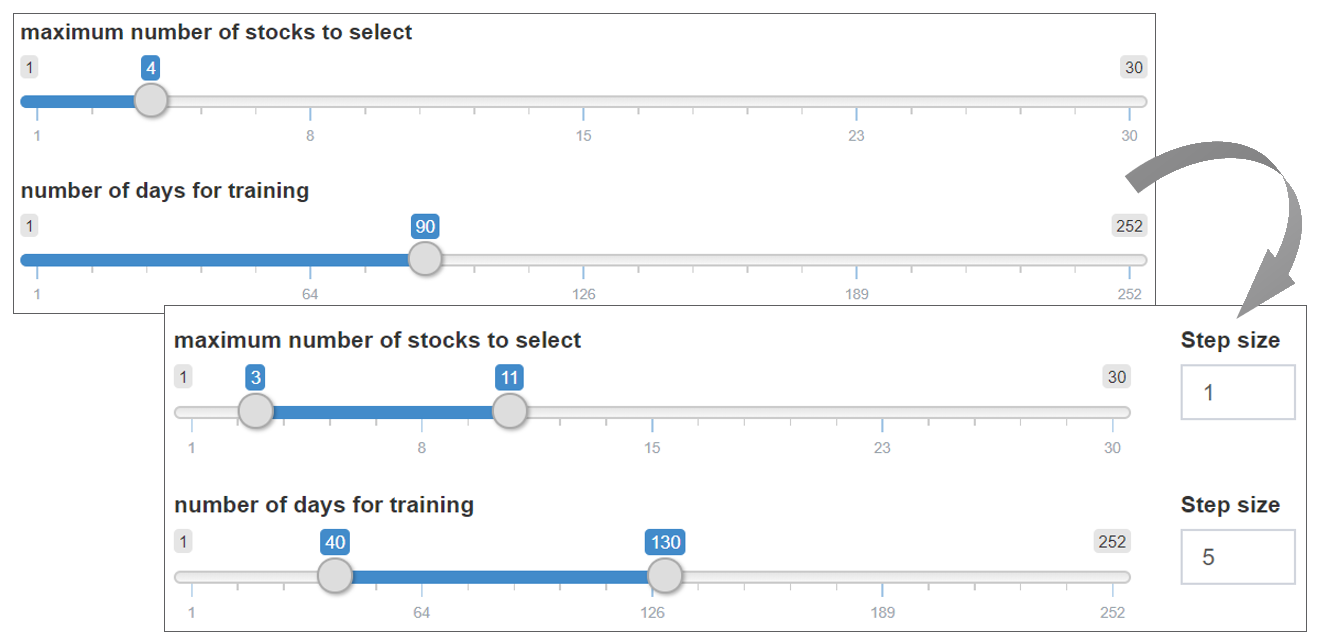
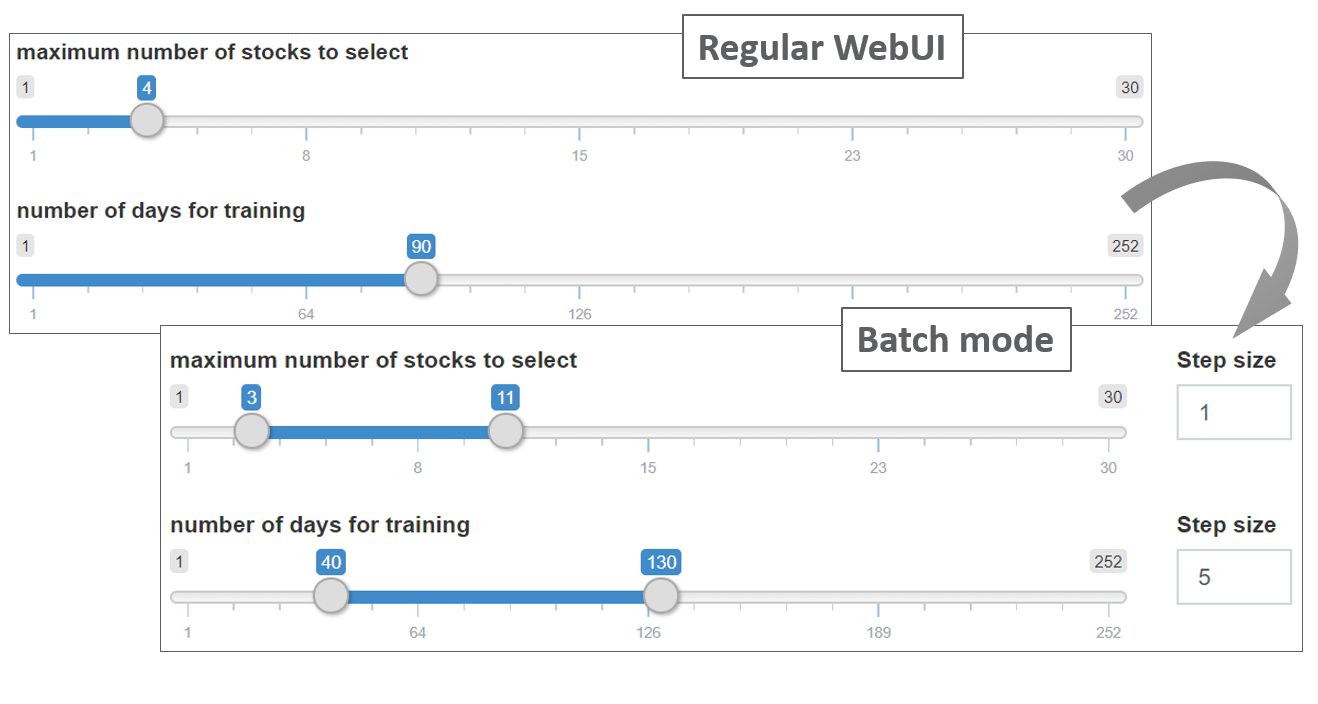
batch-documentation - first part of "Scenario generation" added

diff --git a/doc/batch.html b/doc/batch.html
@@ -68,7 +68,7 @@
                                 <div class="section-block">      
                                     <p>Visually, the WebUI for batch mode hardly differs from the regular one. After starting the application, the following familiar start screen appears.</p>
                                     <img class="img-fluid" src="assets/images/batch_img/batch_start.png" alt="start screen in batch mode" />
-                                    <p>The navigation menu on the left side now consists of the following sections:</p>
+                                    <p></br>The navigation menu on the left side now consists of the following sections:</p>
                                         <ol class="list">
                                         <li><b>Configure batch run: </b><br/>
                                         Configuration of batch runs.
@@ -86,6 +86,14 @@
                                           Automatic performance analyses with the integrated analysis tool PAVER.              
                                           </li>
                                         </ol>
+                                        <ol class="list" type="A">
+                                        <li><b>Load data: </b><br/>
+                                        Load model input data via database or external Excel files.
+                                        </li>
+                                        <li><b>Submit jobs:</b><br/>
+                                        Creation of batch file after the configuration / parameterization of batch runs. 
+                                          </li>
+                                        </ol>
                                 </div><!--//section-block-->
                             </section><!--//doc-section-->
 
@@ -93,18 +101,18 @@
                                 <h2 class="section-title">Scenario generation</h2>
                                 <div class="section-block">
                                     <p>This section deals with how to generate multiple scenarios, which can then be analyzed.</p>
-                                    
-                                    <p><b>Note:</b> For calculating a scenario the WebUI currently only provides scalar values in the form of compile-time (double-dash) parameters and GAMS options.</p>
+                                    <p>A scenario is defined by an individual parameterization of the model input data. If, for example, for a run of the above mentioned pickstock model, the number of training periods is set to 95 and the maximum number of stocks to be selected is set to 5, then this parameterization characterizes the scenario. The batch configuration discussed here makes it possible to configure several such scenarios at once, so that they can then be calculated in a single process. </p>
+                                    <p>The configuration of such a batch run for a model is done in the menu 'Configure batch run'. An example is given below.</p>
+                                    <p><b>Note:</b> The configuration for a batch run cannot be carried out across models, but only for one model at a time. 
+                                    <p><b>Note:</b> For the parameterization of a scenario, only the scalar values present in the model concerned are available in the form of compile-time (double-dash) parameters and GAMS options. Parameters are currently not supportet in this module.</p>
+
                                      
                                     <div  id="scengen-2"  class="section-block">
                                         <h3 class="block-title">Parameterization</h3>
-                                        <p></p>
-                                        <div class="section-block">
-                                              <img class="img-fluid" src="assets/images/batch_configure.png" alt="Parameterization of batch runs" />
-                                        </div>
-                                        <img class="img-fluid" src="assets/images/batch_img/regular_batch.png" alt="regular pickstock parameterization" />
+                                        <p>If you compare the parameterization options of the input data between a regular single run and the configuration of a batch run, you will notice that the input widgets have changed slightly. As an example the model pickstock is used again. As already mentioned, for parameterizing a single model run in the regular WebUI, you can specify both the number of training periods and the maximum number of stocks using a slider. 
+                                        In the batch configuration for these two compile-time parameters no simple slider are available anymore, but slider with 2 ends, so called range-slider. In addition, there is a 'step size' for the slider range to be configured by the user. The table below gives an overview of the widgets and their different appearance in the regular and the batch model parameterization.</p>
                                         <div class="table-responsive">
-                                          <table class="table table-striped">
+                                          <table class="table table-striped" style="margin: 0px auto; margin-bottom:15px;">
                                               <thead>
                                                   <tr>
                                                     <th>Single mode</th>
@@ -131,15 +139,47 @@
                                               </tbody>
                                           </table>
                                         </div><!--//table-responsive-->
-                                        
+                                        <p>The convention of automatic scenario generation has the following implications: Unless explicitly specified in the WebUI configuration of the model, each parameter of the input data is included in the Cartesian product from all parameter variations. In other words: All combinations are generated from the configuration selected by the user and each individual combination is saved as a single scenario. </p>
+                                        <div class="section-block">
+                                            <img class="img-fluid" src="assets/images/batch_configure.png" alt="Parameterization of batch runs" />
+                                        </div>
+                                        <img class="img-fluid" style="margin-bottom:15px" src="assets/images/batch_img/regular_batch.png" alt="regular pickstock parameterization" />
+                                        <p>In the example, the slider for 'maximum number of stocks to select' was set by the user to a range from 3 to 11 with a step size of 1. 
+                                        The slider configured in this way leads to 9 different scenarios.</p>
+                                        <ul>
+                                        <li>Scenario 1: 'maximum number of stocks to select' = 3</li>
+                                        <li>Scenario 2: 'maximum number of stocks to select' = 4</li>
+                                        <li>Scenario 3: 'maximum number of stocks to select' = 5</li>
+                                        [...]
+                                        <li>Scenario 9: 'maximum number of stocks to select' = 11</li>
+                                        </ul> 
+                                        <P>For the parameter 'number of days for training' the slider was set to a range between 40 and 130 with a step size of 5. The resulting scenarios would therefore be:</P>
+                                        <ul>
+                                        <li>Scenario 1: 'number of days for training' = 40</li>
+                                        <li>Scenario 2: 'number of days for training' = 45</li>
+                                        <li>Scenario 3: 'number of days for training' = 50</li>
+                                        [...]
+                                        <li>Scenario 19: 'number of days for training' = 130</li>
+                                        </ul>
+                                        <p>The previously mentioned Cartesian product of all parameter variations is now used: It is created from the different variants of the two parameters 'maximum number of stocks to select' (9 variations) and 'number of days for training' (19 variations) resulting in 171 individual scenarios. </p>                                                     
+                                        <img class="img-fluid" style="margin-bottom:15px" src="assets/images/batch_img/carth_prod.png" alt="carthesian product of configured parameters" />
+                                        <p>It gets clear that the number of scenarios to be considered can increase very quickly with the number of parameters and their selected configuration. Depending on how computing intensive the underlying GAMS model is, it may be advisable to configure the scenarios carefully. <br>Individual parameters can be excluded from inclusion in the Cartesian product. These parameters would then remain unchanged for each scenario created. this can be done in the WebUI configuration for the GAMS model (i.e. in the config.json file) using the option <span class="code">"nobatch": "true"</span> or via <a href="./customize.html#config-gen">Configuration Generator</a>. </p>               
                                     </div><!--//section-block-->                                
                                     <div  id="scengen-3"  class="section-block">
                                         <h3 class="block-title">Batch script</h3>
-                                        <p></p>
+                                        <p>Once the scenario configuration for a model has been made, it can be completed by clicking on 'Submit jobs'. In the background, all possible scenario combinations are created and written to a batch file as individually executable GAMS calls.<br>In the generated batch file each line represents a single scenario.</p>  
+                                        <img class="img-fluid" style="margin-bottom:15px" src="assets/images/batch_img/config_batch_file.png" alt="generated batch file" />
+                                        <p>Example: In the last row of the shown batch file it says <br>
+                                        <span class="code">a90647a60897593b108947ee2eb940c572c172717fbf39a7a75cccd9b253c288: gams pickstock.gms --maxstock=5 --trainingdays=50 trace=_sys_trace_pickstock.trc traceopt=3</span>
+                                        <p>Starting with an individual hash value for this scenario, the GAMS call <span class="code" style="white-space:nowrap">gams pickstock.gms --maxstock=5 --trainingdays=50</span> follows in the form of a text string. It becomes clear that the parameters selected in the WebUI are passed as compile-time variables (double-dash parameters). This must be considered in the GAMS model to be executed: Each parameter, which is represented as widget (slider, dropdown, checkbox, date selector) in the WebUI and therefore is to define an individual senario, must be addressed within the GAMS model as compile-time variable or GAMS option. 
+                                        <br>The picture does not show that the expected GAMS call will be followed by further details. In these, for example, the creation of a trace file is defined, which is necessary for the internal analysis using <a href="https://github.com/coin-or/Paver" target="_blank">PAVER</a>. </p>
+                                        <p>Since the strings in the form in which they are now available are not calls that can be interpreted by GAMS due to the hash value at the beginning, the information about the individual calls must be extracted. Probably the easiest way to do this is to take each GAMS call and execute it with the help of a script in a separate folder (which is best named after the hash value of the scenario in order to be able to identify each scenario easily), in which the results are also stored. If the scenarios are to be executed on a special compute server, it is a good idea to take all necessary precautions, which have to be considered in the script (e.g. folder structure on computer, login data, etc.).
+                                        <br> The picture shows schematically how these steps could look like.</p> 
+                                        <img class="img-fluid" style="margin-bottom:15px" src="assets/images/batch_img/batch_file_skript.png" alt="schematic of possible workflow" />                                
                                     </div><!--//section-block-->     
                                     <div  id="scengen-4"  class="section-block">
                                         <h3 class="block-title">Compute server</h3>
-                                        <p></p>
+                                        <p>After the click on "Submit jobs" the generated batch file is available for download. In addition to this file, the ZIP file also contains all files necessary for the scenario calculations. More precisely, all files located in the WebUI folder of the corresponding GAMS model will be added to the ZIP. </p>
                                     </div><!--//section-block-->                                     
                                 </div><!--//section-block-->
                             </section><!--//doc-section-->
